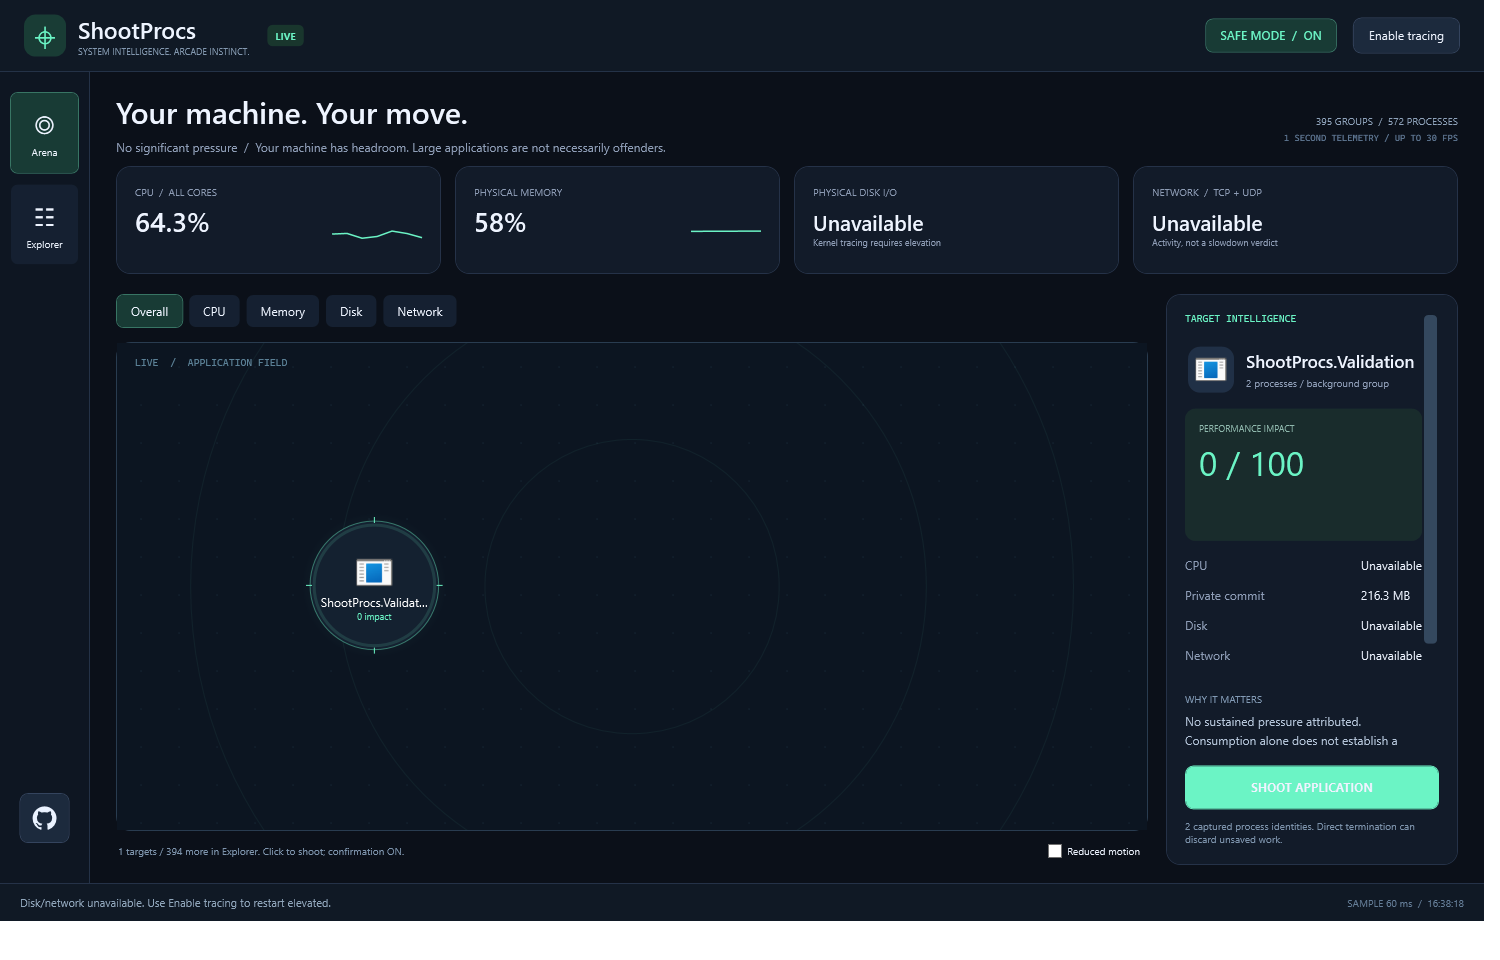
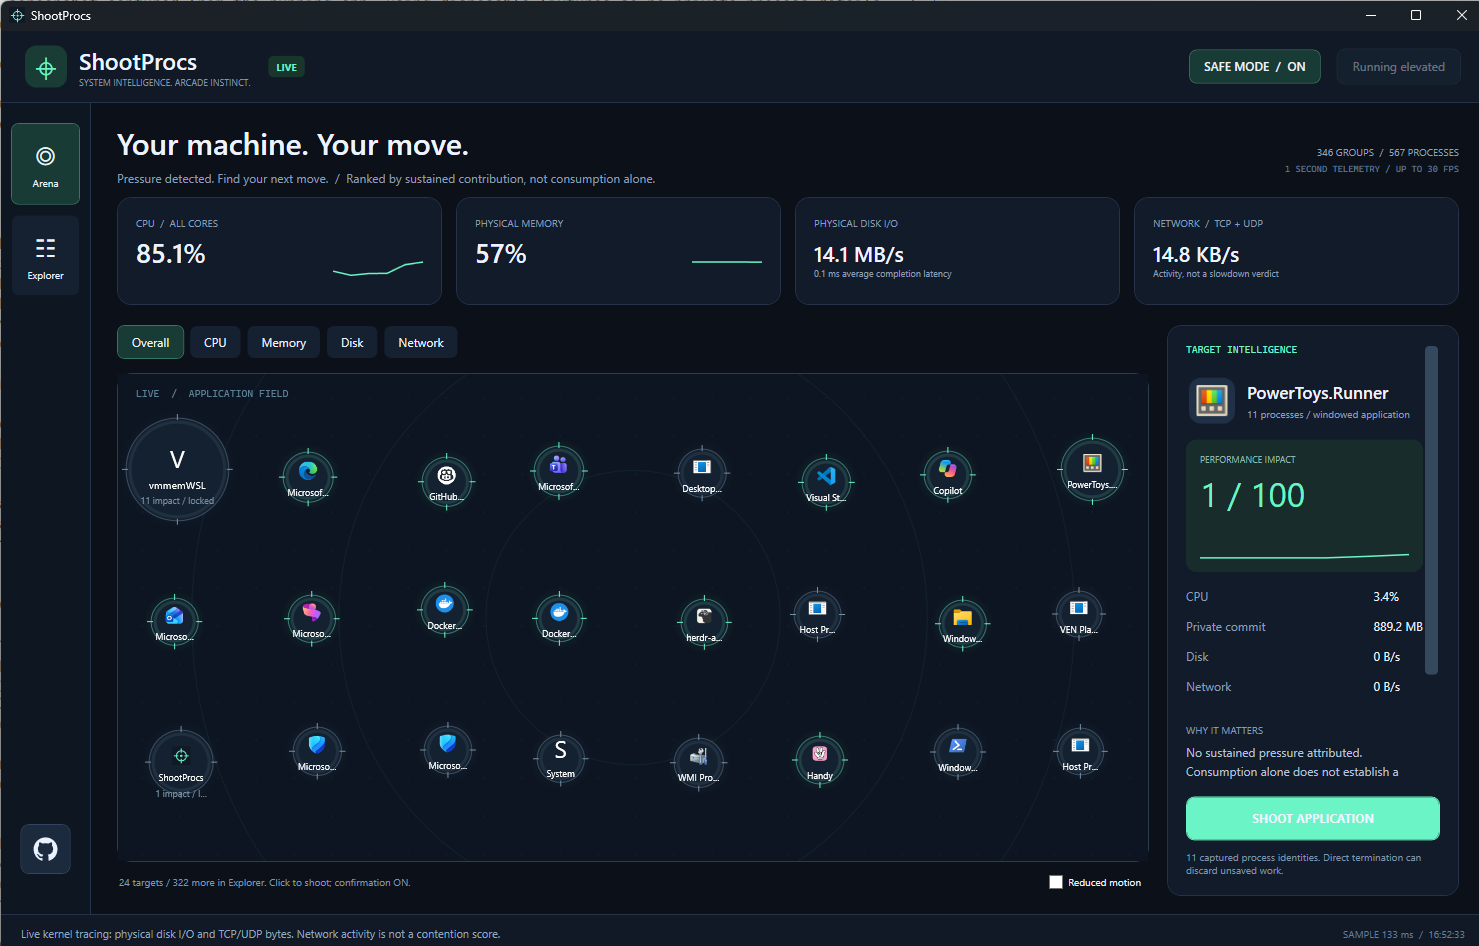
Use owner-supplied elevated Arena screenshot in README
Copilot-Session: c1277add-b32c-437f-b967-c87d1a0f56b6

diff --git a/README.md b/README.md
@@ -12,9 +12,9 @@ Built with .NET 10 and WPF. No browser, web server, or WebView UI.
 
 ![ShootProcs Arena with the GitHub repository button in the lower-left sidebar](docs/images/arena.png)
 
-*Captured from the running Windows application using an owned disposable test
-app, so no private application names or paths appear. The GitHub logo in the
-lower-left sidebar opens this repository in your browser.*
+*ShootProcs running elevated with live disk/network metrics and grouped
+application targets. Screenshot supplied for publication by the project owner.
+The GitHub logo in the lower-left sidebar opens this repository in your browser.*
 
 ## Install: download, run, done
 
@@ -201,8 +201,9 @@ weekly. Dependency review checks PRs; Dependabot maintains NuGet dependencies
 and pinned GitHub Actions. CI builds Windows binaries and exercises application
 behavior and installer lifecycle. Version tags build release assets from a clean
 checkout, check their hashes, then publish the installer, ZIP, and checksum file.
-The guarded fixture-only README preview is public. Personal screenshots,
-process inventories, traces, SDKs, and credentials are not published.
+The README screenshot was explicitly supplied for publication. Local diagnostic
+screenshots and process inventories are not automatically published; traces,
+SDKs, and credentials remain excluded.
 
 There is no automatic updater yet. Because releases include .NET, runtime
 security updates require a new ShootProcs release. Windows Authenticode signing,

diff --git a/docs/validation.md b/docs/validation.md
@@ -113,19 +113,20 @@ Generated evidence:
 - `artifacts\ui\explorer.png`
 - `artifacts\ui\confirmation.png`
 - `artifacts\ui\destruction.png`
-- `artifacts\ui\readme-arena.png` (fixture-only public preview)
+- `artifacts\ui\readme-arena.png` (guarded fixture-only capture)
 
 These are automated native-control, event-route, rendering, and execution
 checks. They are not a claim of exhaustive manual mouse, screen-reader,
 multi-monitor, or every-DPI acceptance.
 
-The README preview is captured by the same native application after an identity
+The automated preview is captured by the same native application after an identity
 guard verifies all visible Arena targets belong to its disposable workers.
 The pending shot keeps membership and inspection stable while the confirmation
 overlay is temporarily hidden for capture, then restored. This is a screenshot
-of the actual running UI, not a drawn mockup; the fixture-only image is the
-only local UI capture intended for publication. Other diagnostic screenshots
-and reports remain private and ignored.
+of the actual running UI, not a drawn mockup. Local diagnostic screenshots
+and reports remain private and ignored. The current README instead uses a
+screenshot explicitly supplied for publication by the project owner, showing
+the Arena with grouped applications and elevated disk/network telemetry.
 
 The corrected self-contained executable was also exercised elevated, with
 36 passing boolean assertions including real rendered disk and network values.

diff --git a/SECURITY.md b/SECURITY.md
@@ -36,8 +36,9 @@ the tag-release publisher.
 
 Release payloads are allowlisted and built in fresh staging directories.
 Source control and release uploads exclude local process inventories,
-personal screenshots, traces, SDKs, certificates/private keys, and environment
-files. The README image is a guarded fixture-only capture, reviewed before
-publication; it does not expose existing application names or paths.
+unapproved screenshots, traces, SDKs, certificates/private keys, and environment
+files. The README image was explicitly supplied for publication by the project
+owner and reviewed for sensitive details. That permission does not extend to
+other local screenshots or diagnostic reports.
 Automated scanning reduces risk; it is not a guarantee that software has no
 vulnerabilities.
